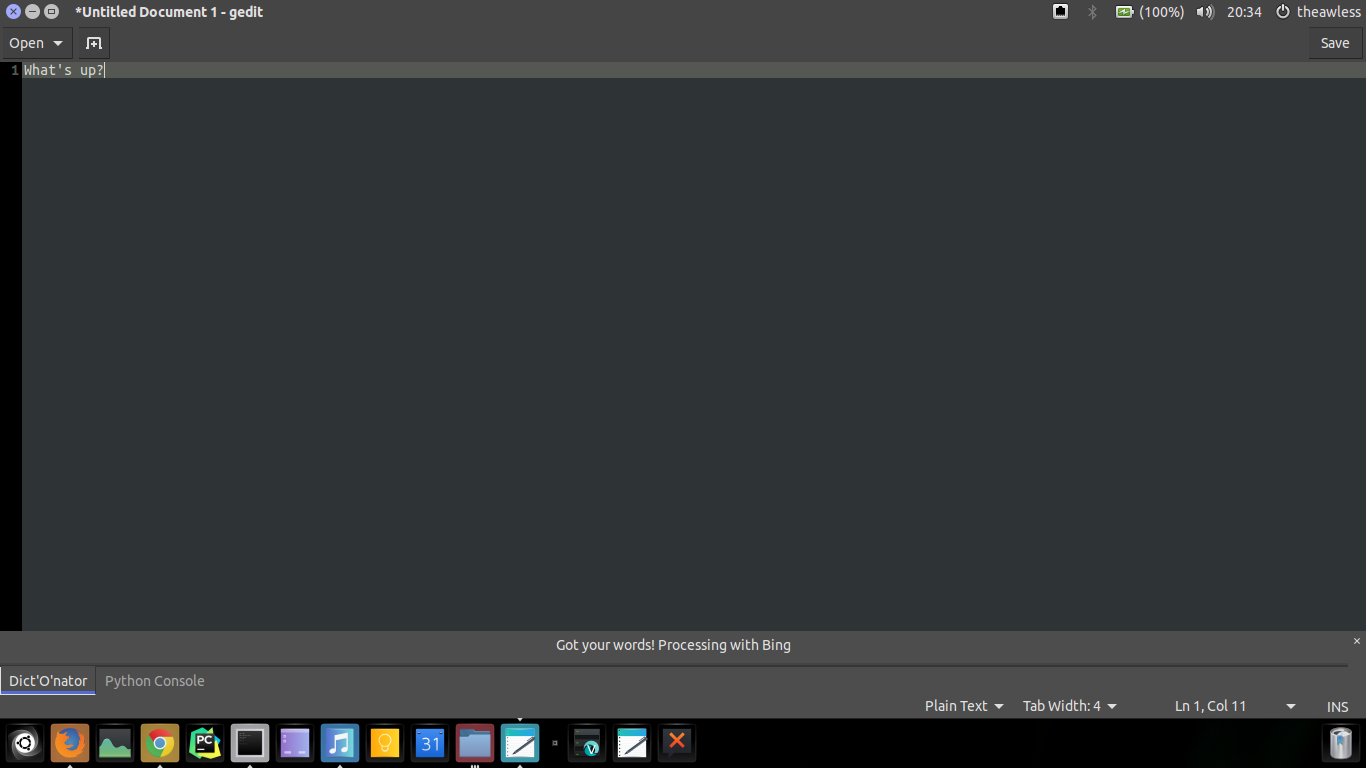
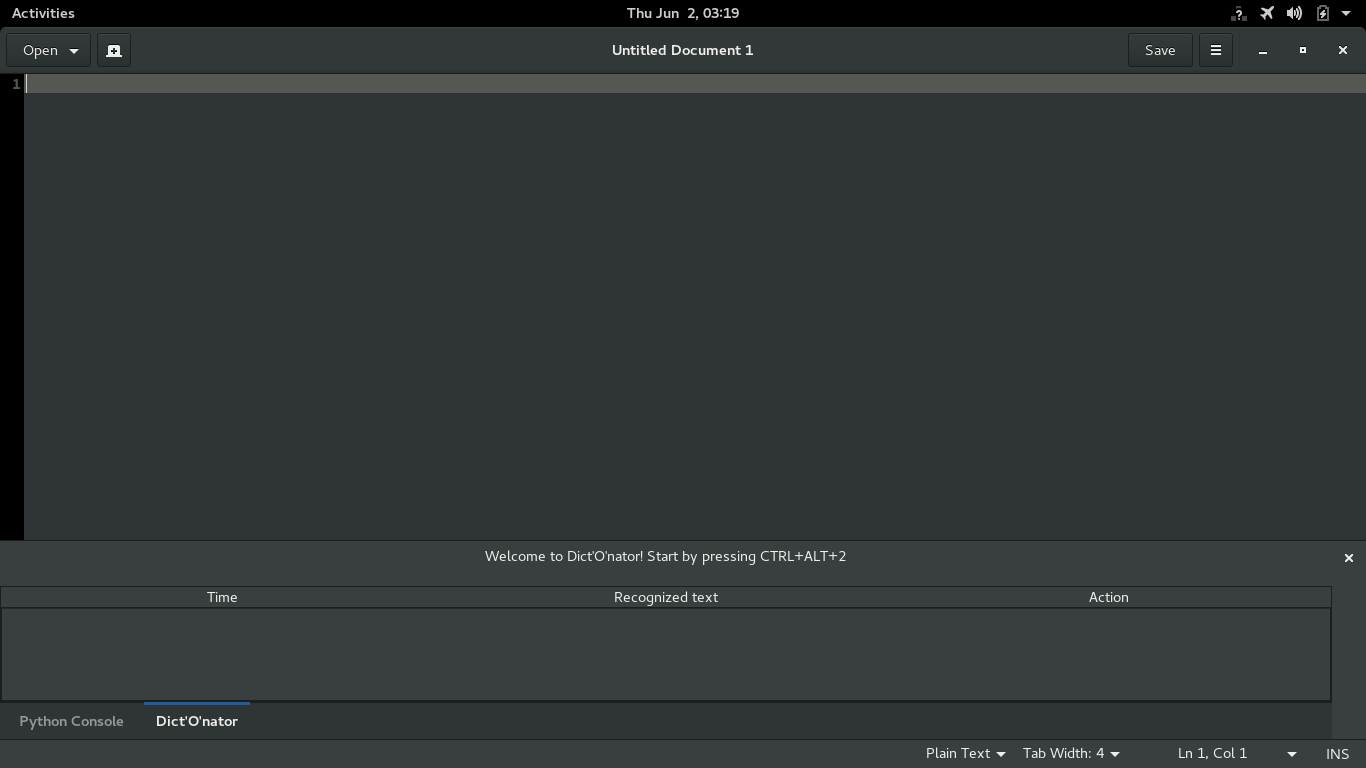
Updated to work with gedit 3.20

diff --git a/dictonator/__init__.py b/dictonator/__init__.py
@@ -38,25 +38,27 @@ class DictonatorAppActivatable(GObject.Object, Gedit.AppActivatable):
 
     def do_activate(self):
         self.menu_ext = self.extend_menu("tools-section")
-        self.app.add_accelerator("<Primary><Alt>2", "win.dictonator_start", None)
-        self.app.add_accelerator("<Primary><Alt>3", "win.dictonator_stop", None)
-        self.app.add_accelerator("<Primary><Alt>4", "win.dictonator_setup", None)
-        self.app.add_accelerator("<Primary><Alt>5", "win.dictonator_logit", None)
+        menu = Gio.Menu()
         item1 = Gio.MenuItem.new("Start Dict'O'nator", 'win.dictonator_start')
         item2 = Gio.MenuItem.new("Stop Dict'O'nator", 'win.dictonator_stop')
         item3 = Gio.MenuItem.new("Setup Dict'O'nator", 'win.dictonator_setup')
         item4 = Gio.MenuItem.new("Logit Dict'O'nator", 'win.dictonator_logit')
-
-        self.menu_ext.append_menu_item(item1)
-        self.menu_ext.append_menu_item(item2)
-        self.menu_ext.append_menu_item(item3)
-        self.menu_ext.append_menu_item(item4)
+        menu.append_item(item1)
+        menu.append_item(item2)
+        menu.append_item(item3)
+        menu.append_item(item4)
+        menu_item = Gio.MenuItem.new_submenu("Dict'O'nator", menu)
+        self.menu_ext.append_menu_item(menu_item)
+        self.app.set_accels_for_action("win.dictonator_start", ("<Primary><Alt>2", None))
+        self.app.set_accels_for_action("win.dictonator_stop", ("<Primary><Alt>3", None))
+        self.app.set_accels_for_action("win.dictonator_setup", ("<Primary><Alt>4", None))
+        self.app.set_accels_for_action("win.dictonator_logit", ("<Primary><Alt>5", None))
 
     def do_deactivate(self):
-        self.app.remove_accelerator('win.dictonator_start', None)
-        self.app.remove_accelerator('win.dictonator_stop', None)
-        self.app.remove_accelerator('win.dictonator_setup', None)
-        self.app.remove_accelerator('win.dictonator_logit', None)
+        self.app.set_accels_for_action("win.dictonator_start", ())
+        self.app.set_accels_for_action("win.dictonator_stop", ())
+        self.app.set_accels_for_action("win.dictonator_setup", ())
+        self.app.set_accels_for_action("win.dictonator_logit", ())
         self.menu_ext = None
 
 

diff --git a/README.md b/README.md
@@ -1,4 +1,4 @@
-# Dict'O'nator : A Dictation Plugin for Gedit 3.18        <img src="images/logo.png" width="60" height="60"/>
+# Dict'O'nator : A Dictation Plugin for Gedit 3.20        <img src="images/logo.png" width="60" height="60"/>
 
 ### Features
 * Dictate text into Gedit  
